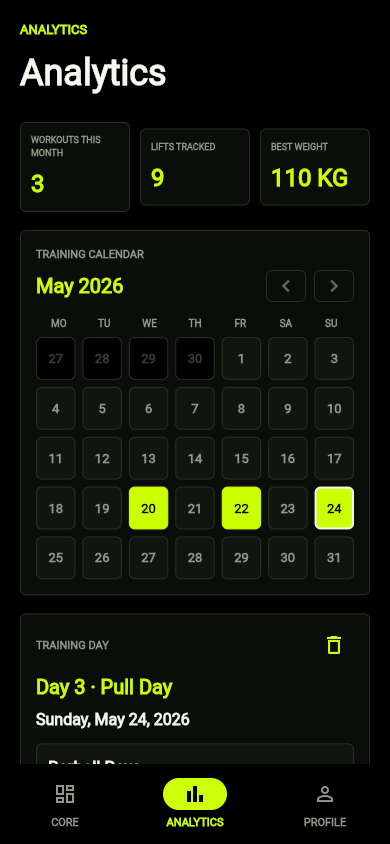
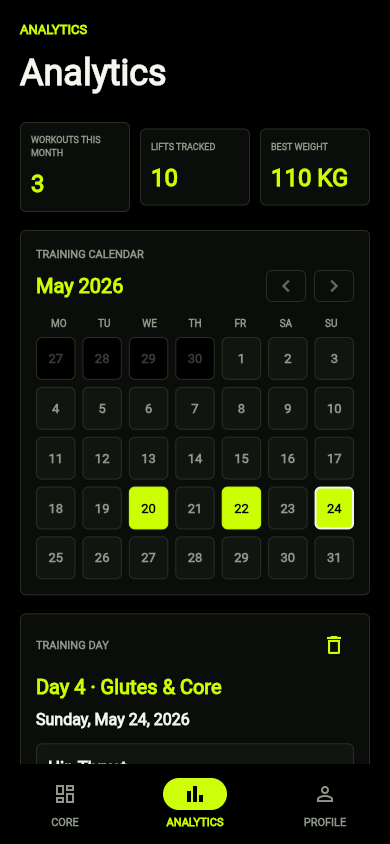
Add full app flow screenshots

diff --git a/README.md b/README.md
@@ -70,17 +70,37 @@ The app keeps the training experience focused while still preserving enough data
 
 ## 📸 Screenshots
 
+### Mobile Authentication
+
+![Mobile authentication](screenshots/mobile-view.png)
+
 ### Home / Training Plan
 
 ![Home page](screenshots/home-page.png)
+
+### Active Workout Session
+
+![Active session](screenshots/active-session.png)
+
+### Set Logging + Rest Timer
+
+![Set logging and rest timer](screenshots/set-logging.png)
+
+### Edit Day + Add Exercises
+
+![Edit day and add exercises](screenshots/edit-day.png)
 
 ### Analytics Dashboard
 
 ![Analytics dashboard](screenshots/dashboard.png)
 
-### Mobile Authentication
+### Exercise Stats Details
 
-![Mobile view](screenshots/mobile-view.png)
+![Exercise stats details](screenshots/analytics-details.png)
+
+### Profile Settings
+
+![Profile settings](screenshots/profile.png)
 
 ---
 